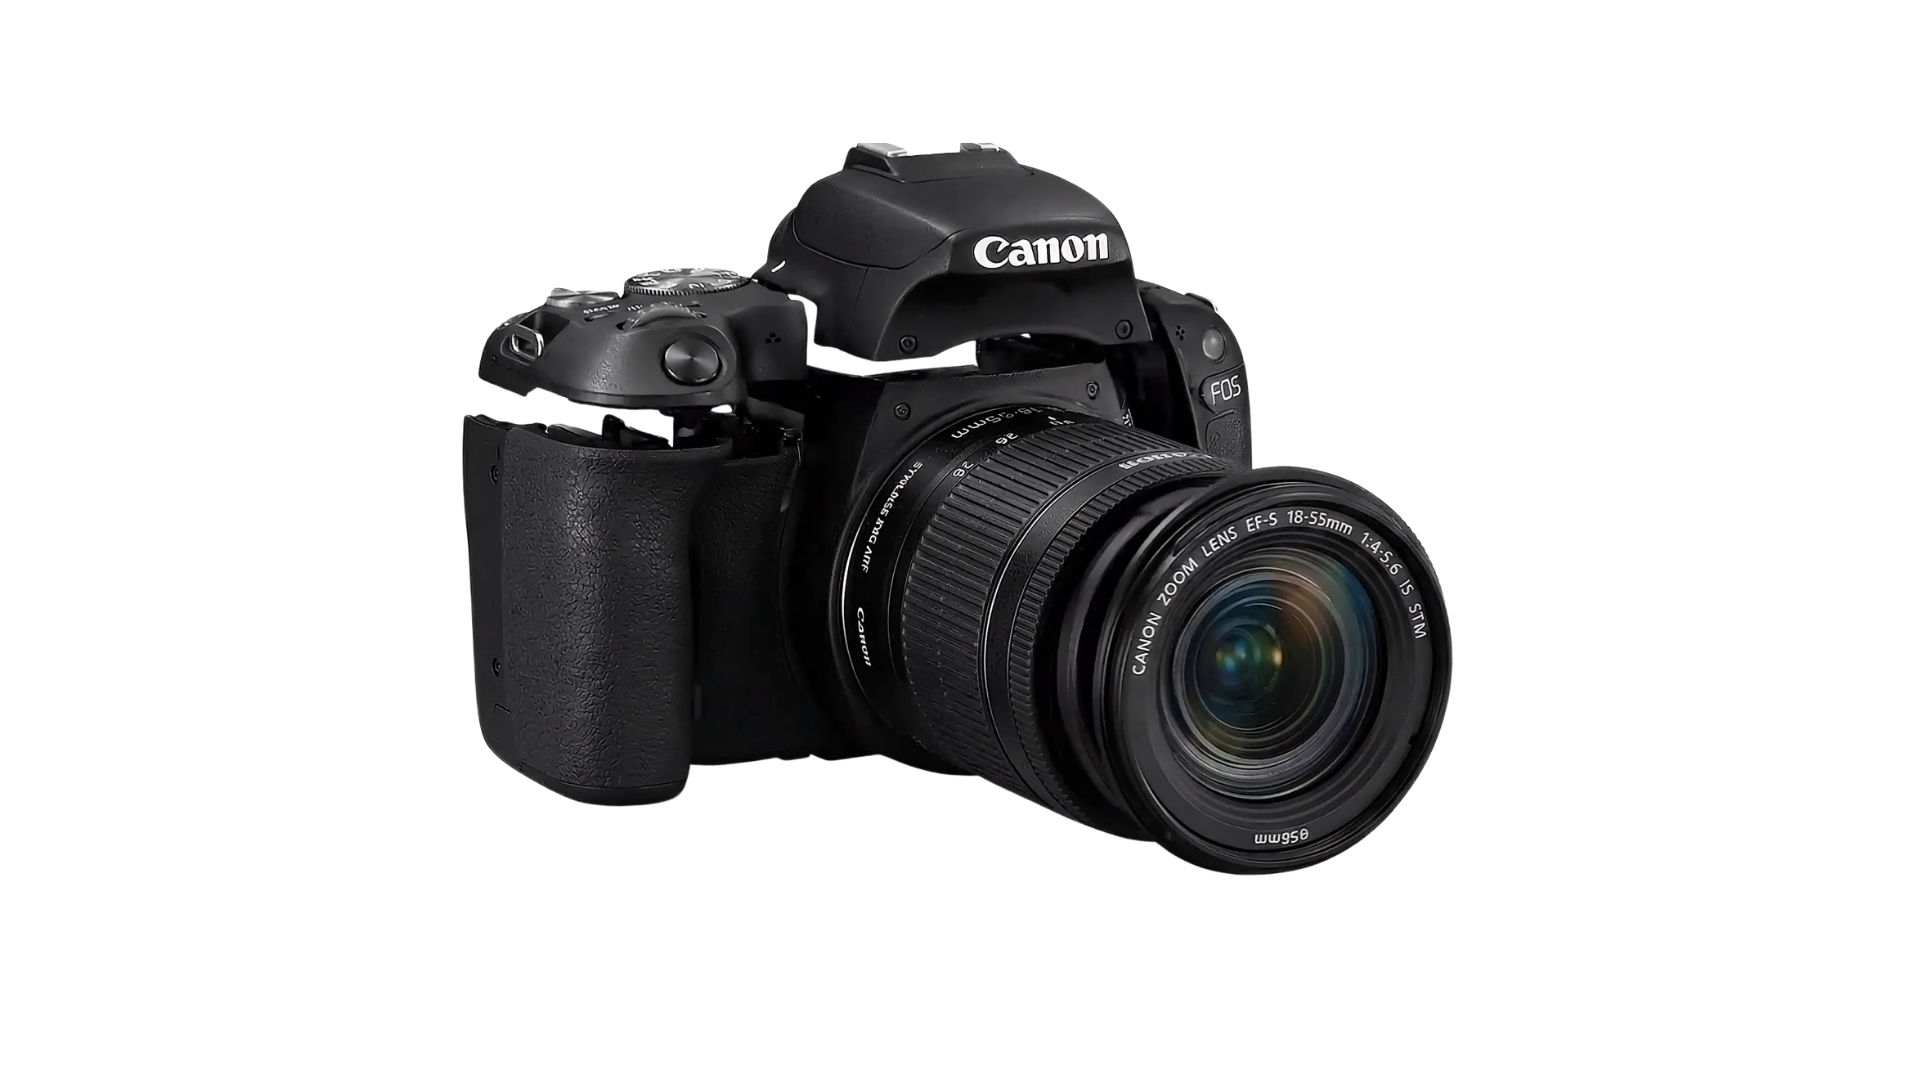
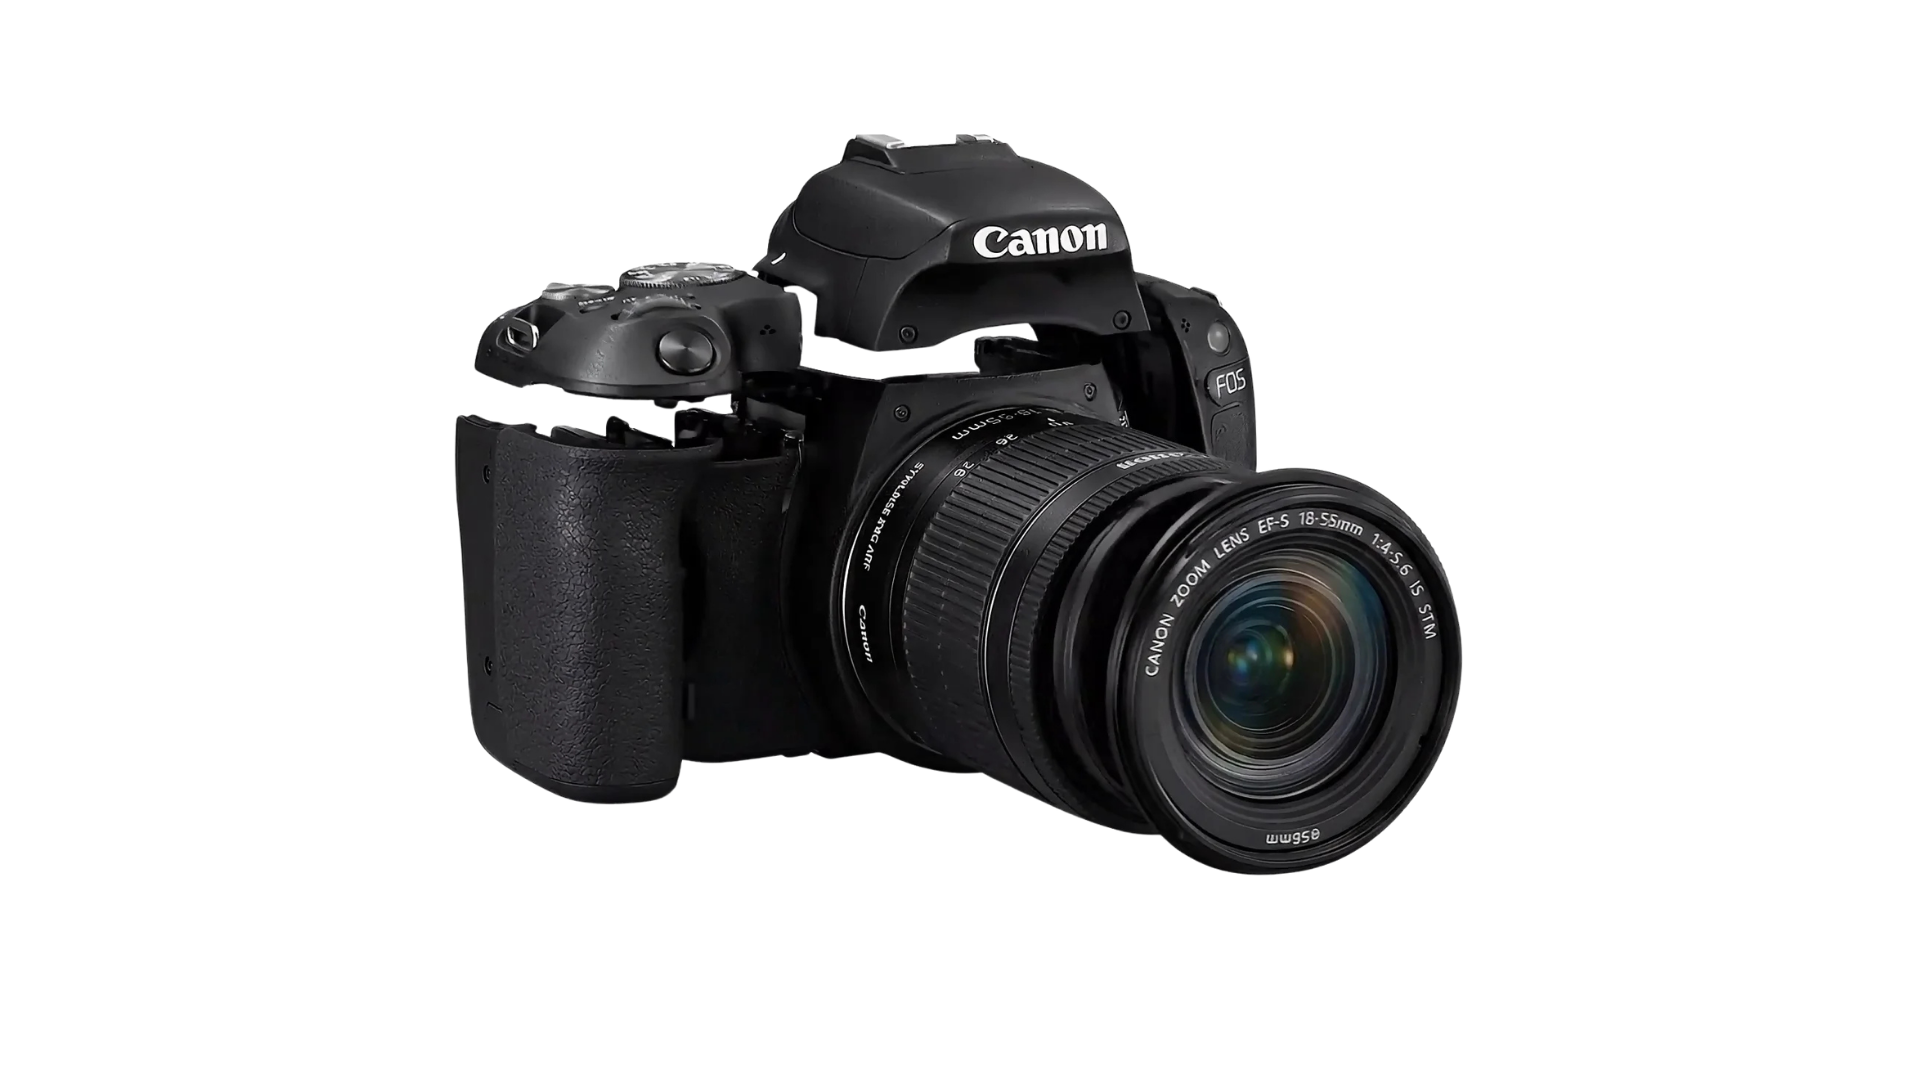
feat: implement ScrollFrameScene component with GSAP-driven scroll sequence and import image assets

diff --git a/src/components/ScrollFrameScene.vue b/src/components/ScrollFrameScene.vue
@@ -52,7 +52,7 @@ gsap.registerPlugin(ScrollTrigger)
 let _introShown = false
 
 const TOTAL_FRAMES = 21
-const BASE_PATH    = '/Canon_SL2_webP/'
+const BASE_PATH    = '/Canon_SL2-png/'
 
 const SEGMENTS = [
   { from: 4,  to: 8,  label: 'Retrato Corporativo'   },
